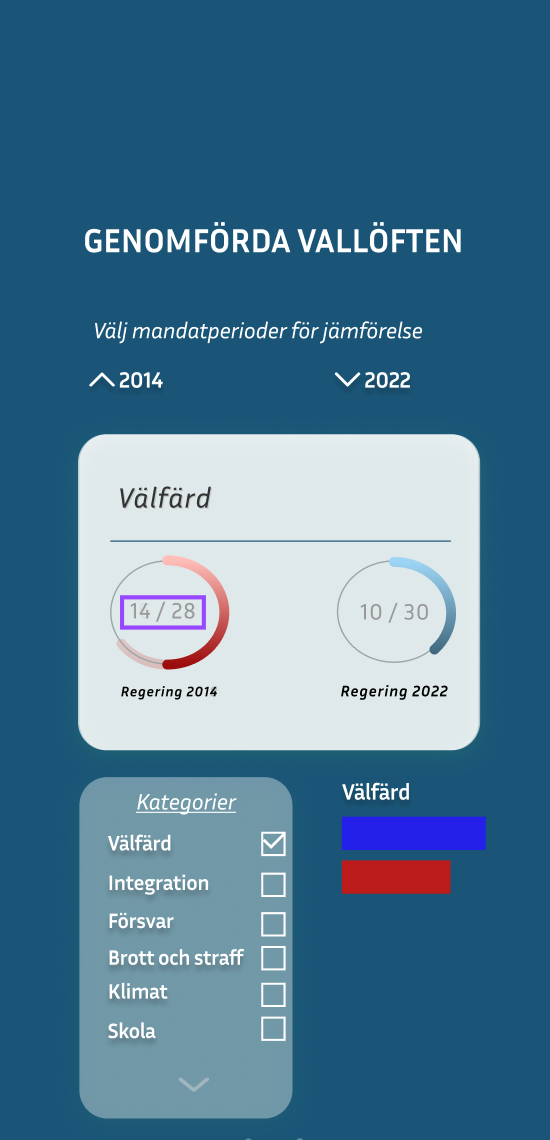
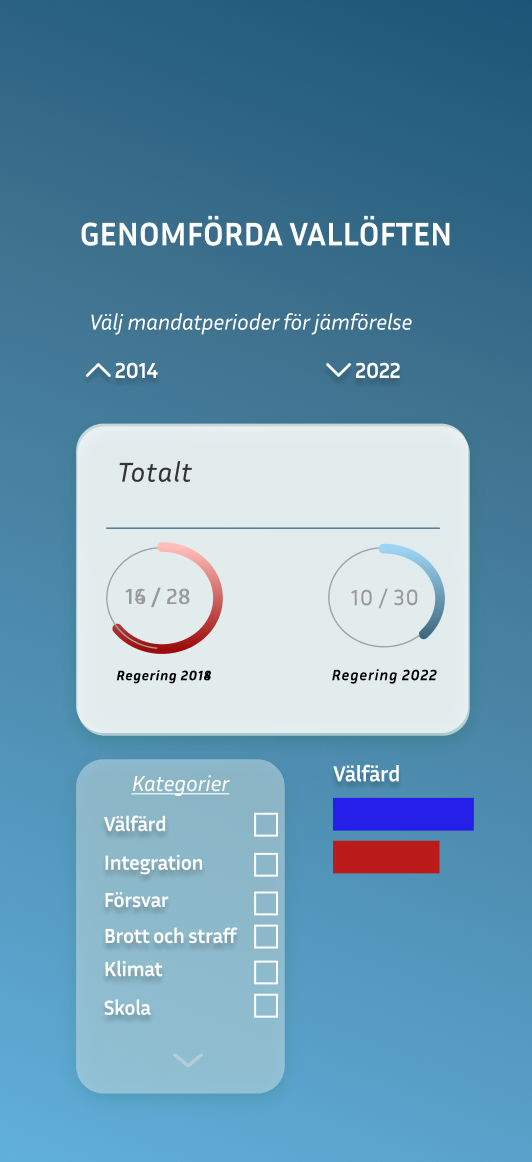
bakgrundsfärgjusteringar, justerade bilder

diff --git a/main.py b/main.py
@@ -4,6 +4,7 @@ import flet as ft
 def main(page: ft.Page):
     page.title = "PolitikPulsen"
     BG = "#1A5577"
+    GG = "#60AEDA"
     MC = "#60AEDA"
     TC = "#B5FFB3"
     ITC= "#FBEDD2"
@@ -46,6 +47,11 @@ def main(page: ft.Page):
                 [
                     ft.AppBar(title=ft.Text("PolitikPulsen"), bgcolor=MC),
                     ft.Container(
+                        gradient=ft.LinearGradient(
+                            begin=ft.alignment.top_right,
+                            end=ft.alignment.bottom_left,
+                            colors=[BG, GG],
+                        ),
                         content=ft.Column(
                             [
                                 a5,
@@ -66,7 +72,7 @@ def main(page: ft.Page):
                             ],
                             alignment=ft.MainAxisAlignment.CENTER,
                         ),
-                        bgcolor = BG,
+                        #bgcolor = BG,
                         border_radius=35,
                         width=350,
                         height=700,
@@ -103,9 +109,14 @@ def main(page: ft.Page):
                         ft.AppBar(title=ft.Text("Jämför Ståndpunkter"), bgcolor=MC),
                         #ft.ElevatedButton("Go Home", bgcolor=EC, on_click=lambda _: page.go("/")),
                         ft.Container(
+                            gradient=ft.LinearGradient(
+                                begin=ft.alignment.top_right,
+                                end=ft.alignment.bottom_left,
+                                colors=[BG, GG],
+                            ),
                             width=350,
                             height=700,
-                            bgcolor=BG,
+                            #bgcolor=BG,
                             border_radius=35,
                             content= ft.Column(
                                 controls=[
@@ -142,9 +153,14 @@ def main(page: ft.Page):
                         ft.AppBar(title=ft.Text("Jämför Ståndpunkter - Skola"), bgcolor=MC),
                         #ft.ElevatedButton("Go Home", bgcolor=EC, on_click=lambda _: page.go("/")),
                         ft.Container(
+                            gradient=ft.LinearGradient(
+                                begin=ft.alignment.top_right,
+                                end=ft.alignment.bottom_left,
+                                colors=[BG, GG],
+                            ),
                             width=350,
                             height=700,
-                            bgcolor=BG,
+                            #bgcolor=BG,
                             border_radius=35,
                             padding= ft.padding.only(top=50, left=20, right=20, bottom=20),
                             content = ft.Column(
@@ -223,9 +239,14 @@ def main(page: ft.Page):
                         ft.AppBar(title=ft.Text("Jämför Ståndpunkter - Brottsbekämpning"), bgcolor=MC),
                         #ft.ElevatedButton("Go Home", bgcolor=EC, on_click=lambda _: page.go("/")),
                         ft.Container(
+                            gradient=ft.LinearGradient(
+                                begin=ft.alignment.top_right,
+                                end=ft.alignment.bottom_left,
+                                colors=[BG, GG],
+                            ),
                             width=350,
                             height=700,
-                            bgcolor=BG,
+                            #bgcolor=BG,
                             border_radius=35,
                             padding= ft.padding.only(top=50, left=20, right=20, bottom=20),
                             content = ft.Column(
@@ -303,13 +324,18 @@ def main(page: ft.Page):
                         ft.AppBar(title=ft.Text("Genomförda vallöften"), bgcolor=MC),
                         #ft.ElevatedButton("Go Home", bgcolor=EC, on_click=lambda _: page.go("/")),
                         ft.Container(
+                            gradient=ft.LinearGradient(
+                                begin=ft.alignment.top_right,
+                                end=ft.alignment.bottom_left,
+                                colors=[BG, GG],
+                            ),
                             width=350,
                             height=700,
-                            bgcolor=BG,
+                            #bgcolor=BG,
                             border_radius=35,
-                            padding= ft.padding.only(top=0, left=20, right=20, bottom=20),
+                            #padding= ft.padding.only(top=0, left=20, right=20, bottom=20),
                             content = ft.Column(
-                                spacing=15,
+                                #spacing=15,
                                 scroll=ft.ScrollMode.AUTO,
                                 controls=[
                                     ft.Text(" "),
@@ -357,8 +383,13 @@ def main(page: ft.Page):
                         ft.Container(
                             width=350,
                             height=700,
-                            bgcolor=BG,
+                            #bgcolor=BG,
                             border_radius=35,
+                            gradient=ft.LinearGradient(
+                                begin=ft.alignment.top_right,
+                                end=ft.alignment.bottom_left,
+                                colors=[BG, GG],
+                            ),
                             content= ft.Column(
                                 controls=[
                                     ft.Text("\n "),  
@@ -397,8 +428,13 @@ def main(page: ft.Page):
                         ft.Container(
                             width=350,
                             height=700,
-                            bgcolor=BG,
+                            #bgcolor=BG,
                             border_radius=35,
+                            gradient=ft.LinearGradient(
+                                begin=ft.alignment.top_right,
+                                end=ft.alignment.bottom_left,
+                                colors=[BG, GG],
+                            ),
                             padding= ft.padding.only(top=50, left=20, right=20, bottom=20),
                              content = ft.Column(
                                 spacing=10,
@@ -455,8 +491,13 @@ def main(page: ft.Page):
                         ft.Container(
                             width=350,
                             height=700,
-                            bgcolor=BG,
+                            #bgcolor=BG,
                             border_radius=35,
+                            gradient=ft.LinearGradient(
+                                begin=ft.alignment.top_right,
+                                end=ft.alignment.bottom_left,
+                                colors=[BG, GG],
+                            ),
                             padding= ft.padding.only(top=50, left=20, right=20, bottom=20),
                             content = ft.Column(
                                 spacing=10,
@@ -525,8 +566,13 @@ def main(page: ft.Page):
                         ft.Container(
                             width=350,
                             height=700,
-                            bgcolor=BG,
+                            #bgcolor=BG,
                             border_radius=35,
+                            gradient=ft.LinearGradient(
+                                begin=ft.alignment.top_right,
+                                end=ft.alignment.bottom_left,
+                                colors=[BG, GG],
+                            ),
                             padding= ft.padding.only(top=50, left=20, right=20, bottom=20),
                             content = ft.Column(
                                 spacing=10,
@@ -601,8 +647,13 @@ def main(page: ft.Page):
                         ft.Container(
                             width=350,
                             height=700,
-                            bgcolor=BG,
+                            #bgcolor=BG,
                             border_radius=35,
+                            gradient=ft.LinearGradient(
+                                begin=ft.alignment.top_right,
+                                end=ft.alignment.bottom_left,
+                                colors=[BG, GG],
+                            ),
                             content= ft.Column(
                                 controls=[
                                     ft.Text("\n "),
@@ -653,7 +704,7 @@ def main(page: ft.Page):
                                         fit=ft.ImageFit.CONTAIN
                                     ),
                                     ft.Text("Parkering i centrala Göteorg görs om till sommartorg:", color=ITC),
-                                    ft.Markdown("[Se här](https://sverigesradio.se/artikel/kommunen-skrotar-p-platser-i-centrum-blir-sommartorg)", auto_follow_links=True),
+                                    ft.Markdown("[Se här](https://sverigesradio.se/artikel/kommunen-skrotar-p-platser-i-centrum-blir-sommartorg)", auto_follow_links=True, code_theme="atom-one-dark"),
                                     ft.Text("Skola ger upp vegetarisk bamba - tar tillbaka kött:", color=ITC),
                                     ft.Markdown("[Se här](https://www.gp.se/nyheter/goteborg/klara-teoretiska-gymnasium-tar-tillbaka-kott-i-bamba.8647097d-c505-4194-be63-e2107db401ca)", auto_follow_links=True),
                                     ft.Text("Träd i Eriksberg räddas när cykelbana breddas:", color=ITC),
@@ -760,8 +811,13 @@ def main(page: ft.Page):
                         ft.Container(
                             width=350,
                             height=700,
-                            bgcolor=BG,
+                            #bgcolor=BG,
                             border_radius=35,
+                            gradient=ft.LinearGradient(
+                                begin=ft.alignment.top_right,
+                                end=ft.alignment.bottom_left,
+                                colors=[BG, GG],
+                            ),
                             padding= ft.padding.only(top=0, left=20, right=20, bottom=20),
                             content = ft.Column(
                                 spacing=15,
